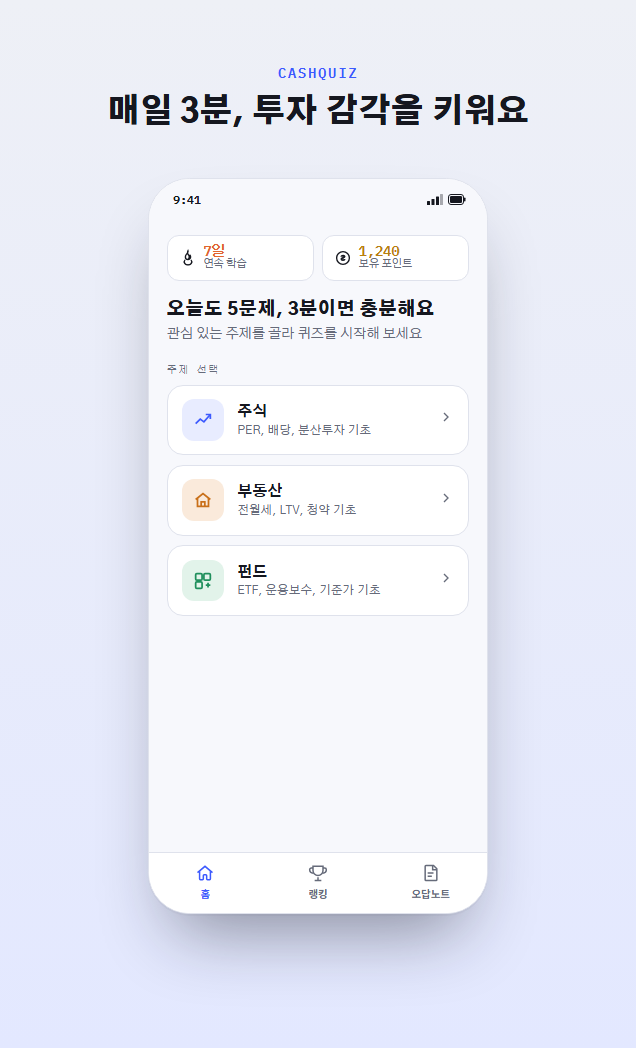
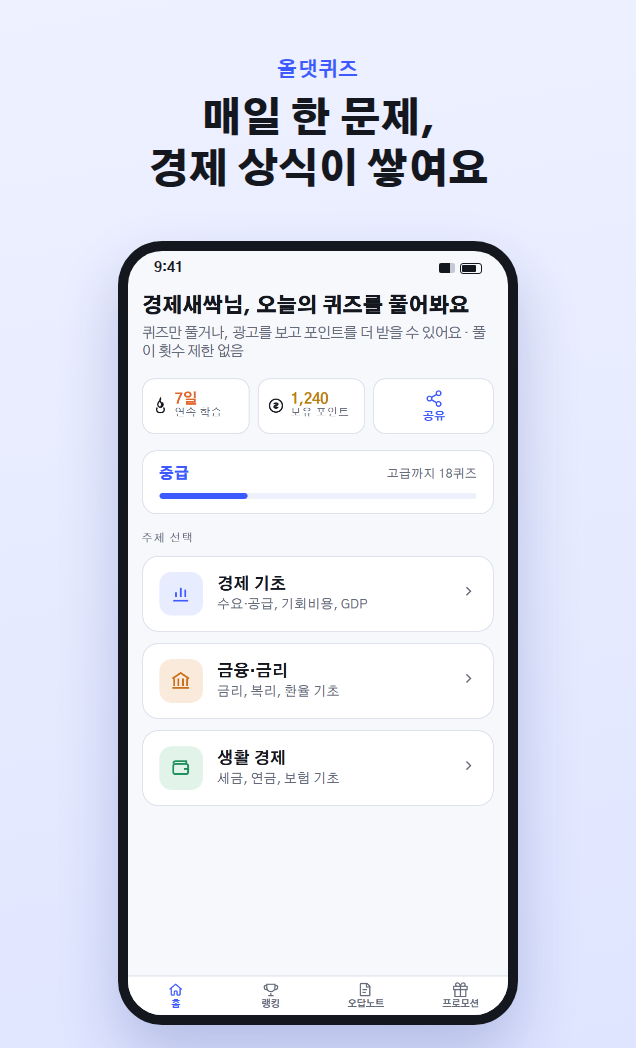
feat: 앱인토스 노출 정보용 로고·스크린샷을 올댓퀴즈로 교체
- 로고 600x600(라이트/다크), 세로형 스크린샷 4장(636x1048), 가로형 1장(1504x741)
- 실제 앱 화면을 목업 API 응답으로 렌더링해 캡처

Claude-Session: https://claude.ai/code/session_0167qrMiYYyzgzxaqpRtzW3a

diff --git a/requirements.md b/requirements.md
@@ -321,7 +321,7 @@
 3. **Render에 백엔드 서비스 생성** — New > Blueprint로 이 저장소 선택(`render.yaml`, 서비스명 `all-that-quiz`) → 환경변수 `ANTHROPIC_API_KEY`(CashQuiz와 같은 키 사용 가능), `ANTHROPIC_WORKSPACE_ID`(필요 시), `SUPABASE_URL`, `SUPABASE_SERVICE_ROLE_KEY` 입력. 서비스명이 이미 쓰이고 있어 URL이 달라지면 `.env.production`의 `VITE_API_BASE`를 실제 URL로 바꾼다
 4. **콘솔에서 리워드 광고 그룹 생성** → ID를 `.env.production`의 `VITE_AD_GROUP_ID`에 반영
 5. 위 값이 확정되면 `npm run build`로 `.ait` 생성 → 콘솔에 업로드 → QR로 실기기 테스트
-6. 앱 아이콘/스토어 스크린샷(`store-assets/`는 아직 CashQuiz 화면) 올댓퀴즈로 교체
+6. ~~앱 아이콘/스토어 스크린샷 올댓퀴즈로 교체~~ — **제작 완료(2026-10-02), 콘솔 업로드는 사용자가 진행**: `store-assets/`에 로고(`logo.png`, 600×600 각진 정사각형·배경 꽉 채움 — 앱인토스 UI/UX 가이드 기준), 다크모드 로고(`logo_dark.png`, 선택), 세로형 스크린샷 4장(636×1048: 홈·퀴즈·결과·랭킹), 가로형 1장(`screenshot_wide.png`, 1504×741). 스크린샷은 목업이 아니라 **실제 앱(vite dev)을 목업 API 응답으로 렌더링**한 화면이다(백엔드 미구축 상태라 데이터는 예시값). 현금화 관련 내용은 넣지 않음(§13 원칙 3). 앱 검색 키워드 제안: 경제퀴즈, 경제상식, 금융상식, 금리, 환율, 재테크, 퀴즈, 포인트, 연말정산, 상식퀴즈
 7. 실제 Render URL·appName이 위 계획과 달라지면 System Architecture Diagram(§6)도 갱신(§13 원칙 19)
 
 이하 항목은 CashQuiz에서 물려받은 과제로, 올댓퀴즈에도 동일하게 적용된다:
